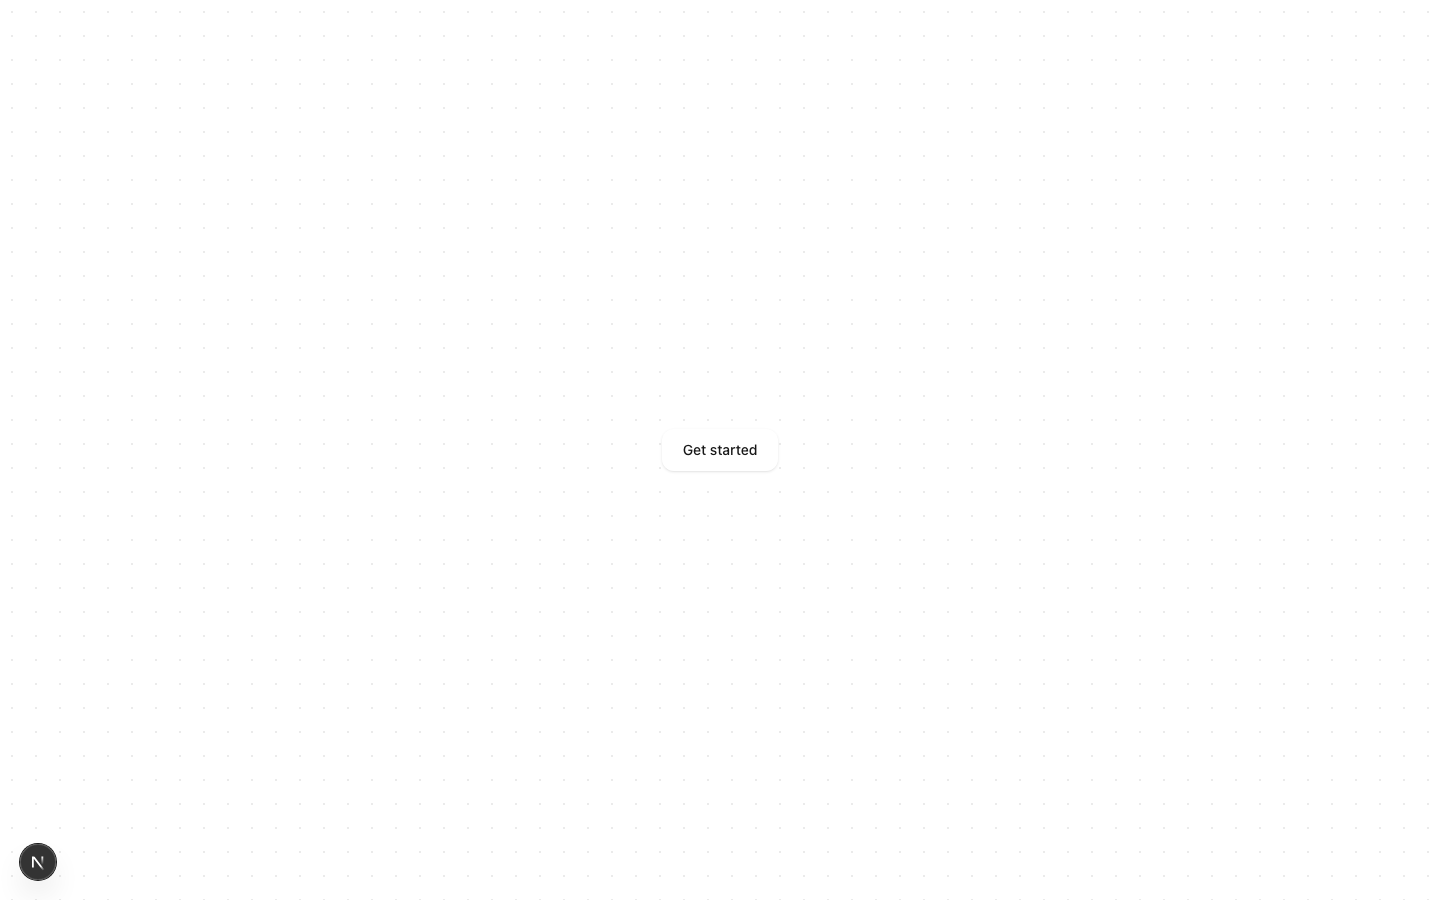
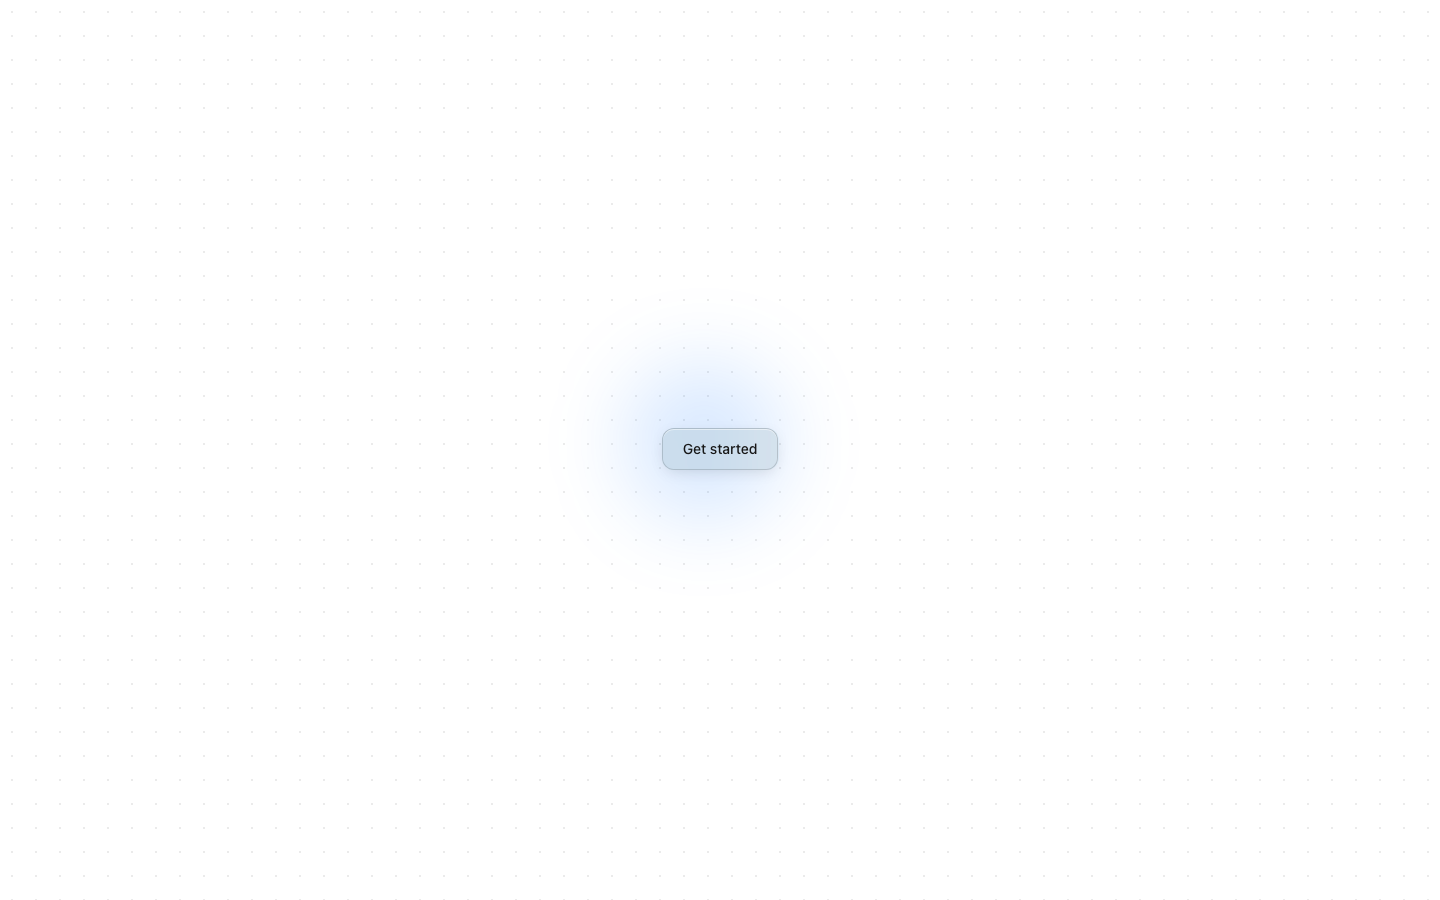
feat: glass-button to the bar (ticket 3)
Layered glass material (blur+saturate, specular top edge, depth shadow),
springy press via overshoot bezier, motion-reduce respected, orb-lit demo.
Two judge passes: fixed off-center composition + light-mode wash.

Claude-Session: https://claude.ai/code/session_01Czco813DMiukQmrz5QWbvN

Changed region(s): [[0.4375, 0.4356, 0.5625, 0.56], [0.0, 0.9333, 0.0625, 0.9956]]

diff --git a/registry/core/glass-button/component.tsx b/registry/core/glass-button/component.tsx
@@ -2,7 +2,6 @@
 
 import type { ButtonHTMLAttributes } from "react";
 
-// ponytail: minimal seed version — ticket 3 takes this through the judge loop
 export function GlassButton({
   className = "",
   children,
@@ -10,7 +9,23 @@ export function GlassButton({
 }: ButtonHTMLAttributes<HTMLButtonElement>) {
   return (
     <button
-      className={`inline-flex items-center justify-center rounded-md border border-white/15 bg-white/10 px-5 py-2.5 text-sm font-medium text-foreground shadow-sm backdrop-blur-xl transition-all duration-150 ease-out hover:border-white/25 hover:bg-white/15 focus-visible:outline-2 focus-visible:outline-offset-2 focus-visible:outline-accent active:scale-[0.97] dark:border-white/10 dark:bg-white/5 dark:hover:border-white/20 dark:hover:bg-white/10 ${className}`}
+      className={[
+        "relative inline-flex items-center justify-center overflow-hidden rounded-md px-5 py-2.5 text-sm font-medium text-foreground",
+        // glass material: translucent fill, heavy blur, saturation boost
+        "bg-black/[0.04] backdrop-blur-xl backdrop-saturate-150 dark:bg-white/[0.06]",
+        "border border-black/10 dark:border-white/10",
+        // depth: top specular edge (inset) + soft lift shadow
+        "shadow-[inset_0_1px_0_0_rgba(255,255,255,0.5),0_4px_16px_-4px_rgba(0,0,0,0.15)]",
+        "dark:shadow-[inset_0_1px_0_0_rgba(255,255,255,0.12),0_8px_24px_-8px_rgba(0,0,0,0.5)]",
+        // hover: material brightens, border sharpens, 1px lift
+        "hover:-translate-y-px hover:bg-black/[0.07] hover:border-black/15 dark:hover:bg-white/[0.1] dark:hover:border-white/20",
+        // press: springy scale-down (overshoot bezier ~ spring without a dep)
+        "active:translate-y-0 active:scale-[0.96]",
+        "transition-[transform,background-color,border-color] duration-200 ease-[cubic-bezier(0.34,1.56,0.64,1)]",
+        "focus-visible:outline-2 focus-visible:outline-offset-2 focus-visible:outline-accent",
+        "motion-reduce:transition-none motion-reduce:hover:translate-y-0",
+        className,
+      ].join(" ")}
       {...props}
     >
       {children}

diff --git a/registry/core/glass-button/demo.tsx b/registry/core/glass-button/demo.tsx
@@ -5,10 +5,15 @@ import { GlassButton } from "./component";
 export default function GlassButtonDemo() {
   return (
     <div className="relative flex min-h-screen items-center justify-center overflow-hidden">
-      {/* dot grid so the glass has something to blur */}
+      {/* dot grid + ambient light orbs so the glass has something to refract */}
       <div
         aria-hidden
         className="absolute inset-0 [background-image:radial-gradient(circle,var(--color-border)_1px,transparent_1px)] [background-size:24px_24px]"
+      />
+      {/* orb sits directly behind the button so the glass visibly blurs it */}
+      <div
+        aria-hidden
+        className="absolute left-1/2 top-1/2 h-40 w-40 -translate-x-[60%] -translate-y-[55%] rounded-full bg-accent/15 blur-2xl dark:bg-accent/20"
       />
       <GlassButton>Get started</GlassButton>
     </div>

diff --git a/next.config.ts b/next.config.ts
@@ -1,5 +1,8 @@
 import type { NextConfig } from "next";
 
-const nextConfig: NextConfig = {};
+const nextConfig: NextConfig = {
+  // keep corpus screenshots clean
+  devIndicators: false,
+};
 
 export default nextConfig;

diff --git a/tickets.md b/tickets.md
@@ -31,10 +31,10 @@ Work the **frontier**: any ticket whose blockers are all done. After ticket 2, t
 
 **Blocked by:** Quality gate.
 
-- [ ] Passes verify with committed screenshots (all states × both themes)
-- [ ] Hover/press/focus states are distinct and animated with physics-based easing
-- [ ] Judge loop completed — final screenshots hold up against Aceternity/Magic UI-level reference
-- [ ] Accessible: keyboard focus visible, works as a real button
+- [x] Passes verify with committed screenshots (all states × both themes)
+- [x] Hover/press/focus states are distinct and animated with physics-based easing
+- [x] Judge loop completed — final screenshots hold up against Aceternity/Magic UI-level reference
+- [x] Accessible: keyboard focus visible, works as a real button
 
 ## particle-hero (flagship)
 
